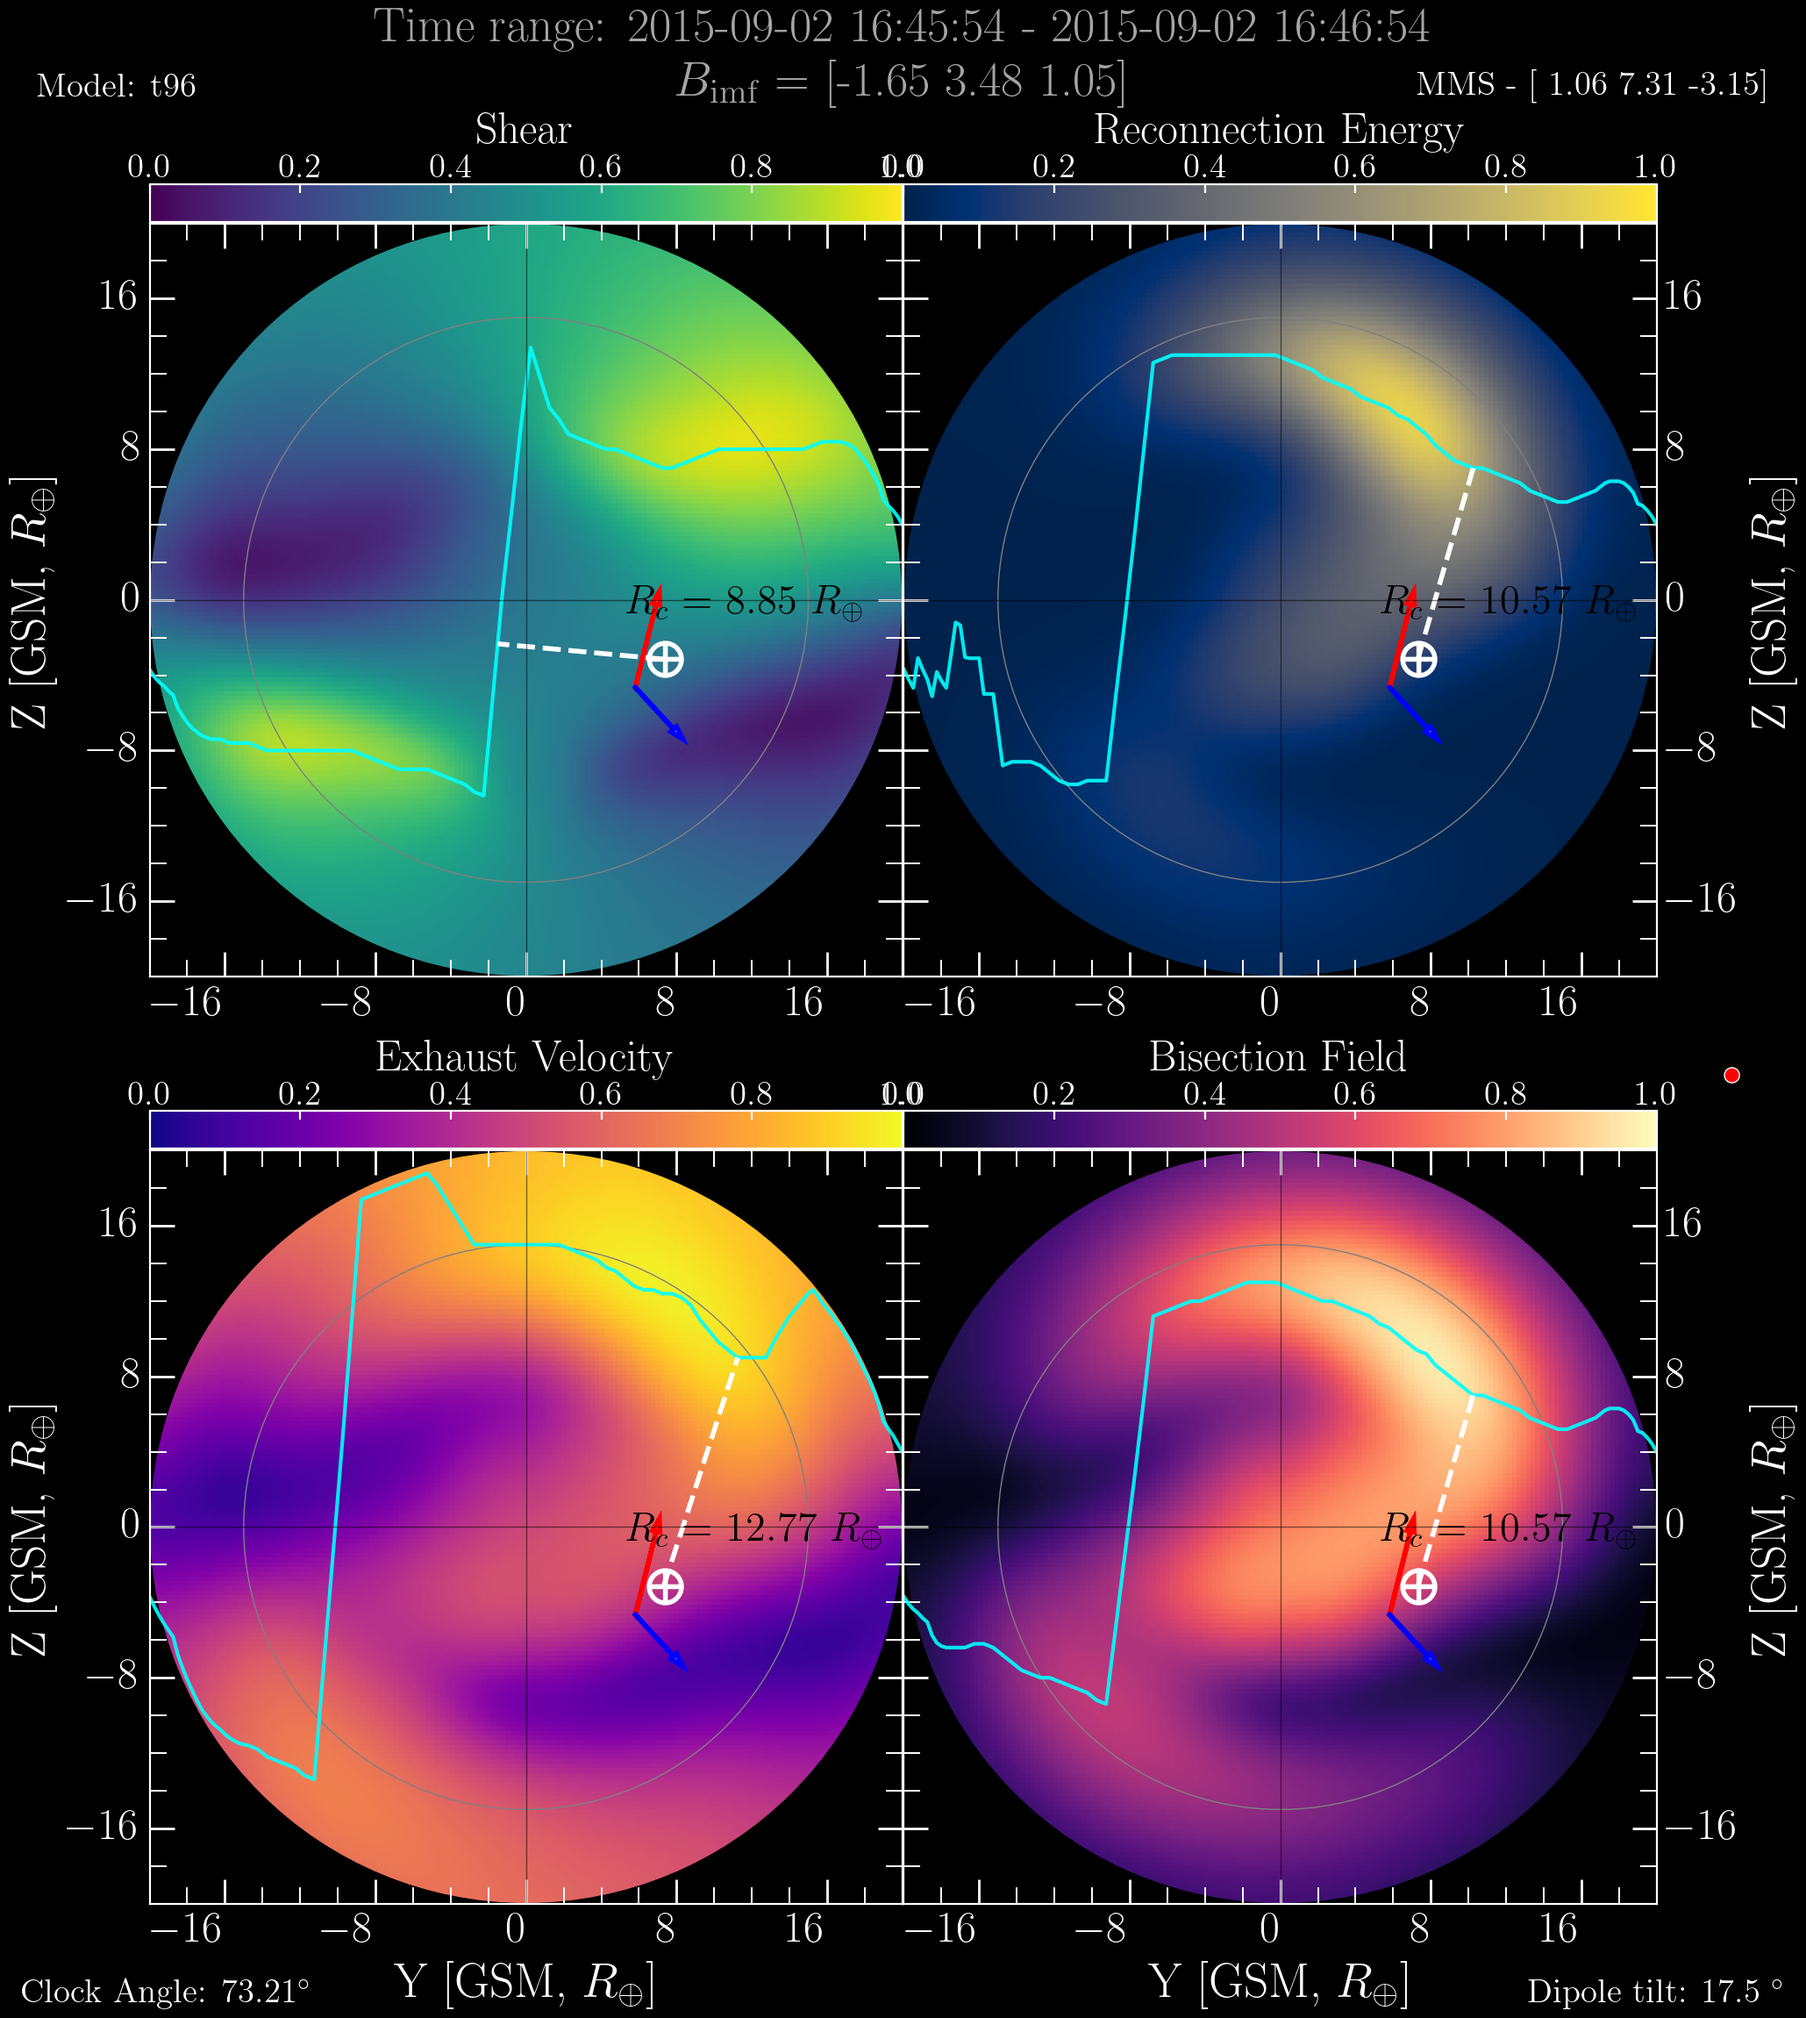
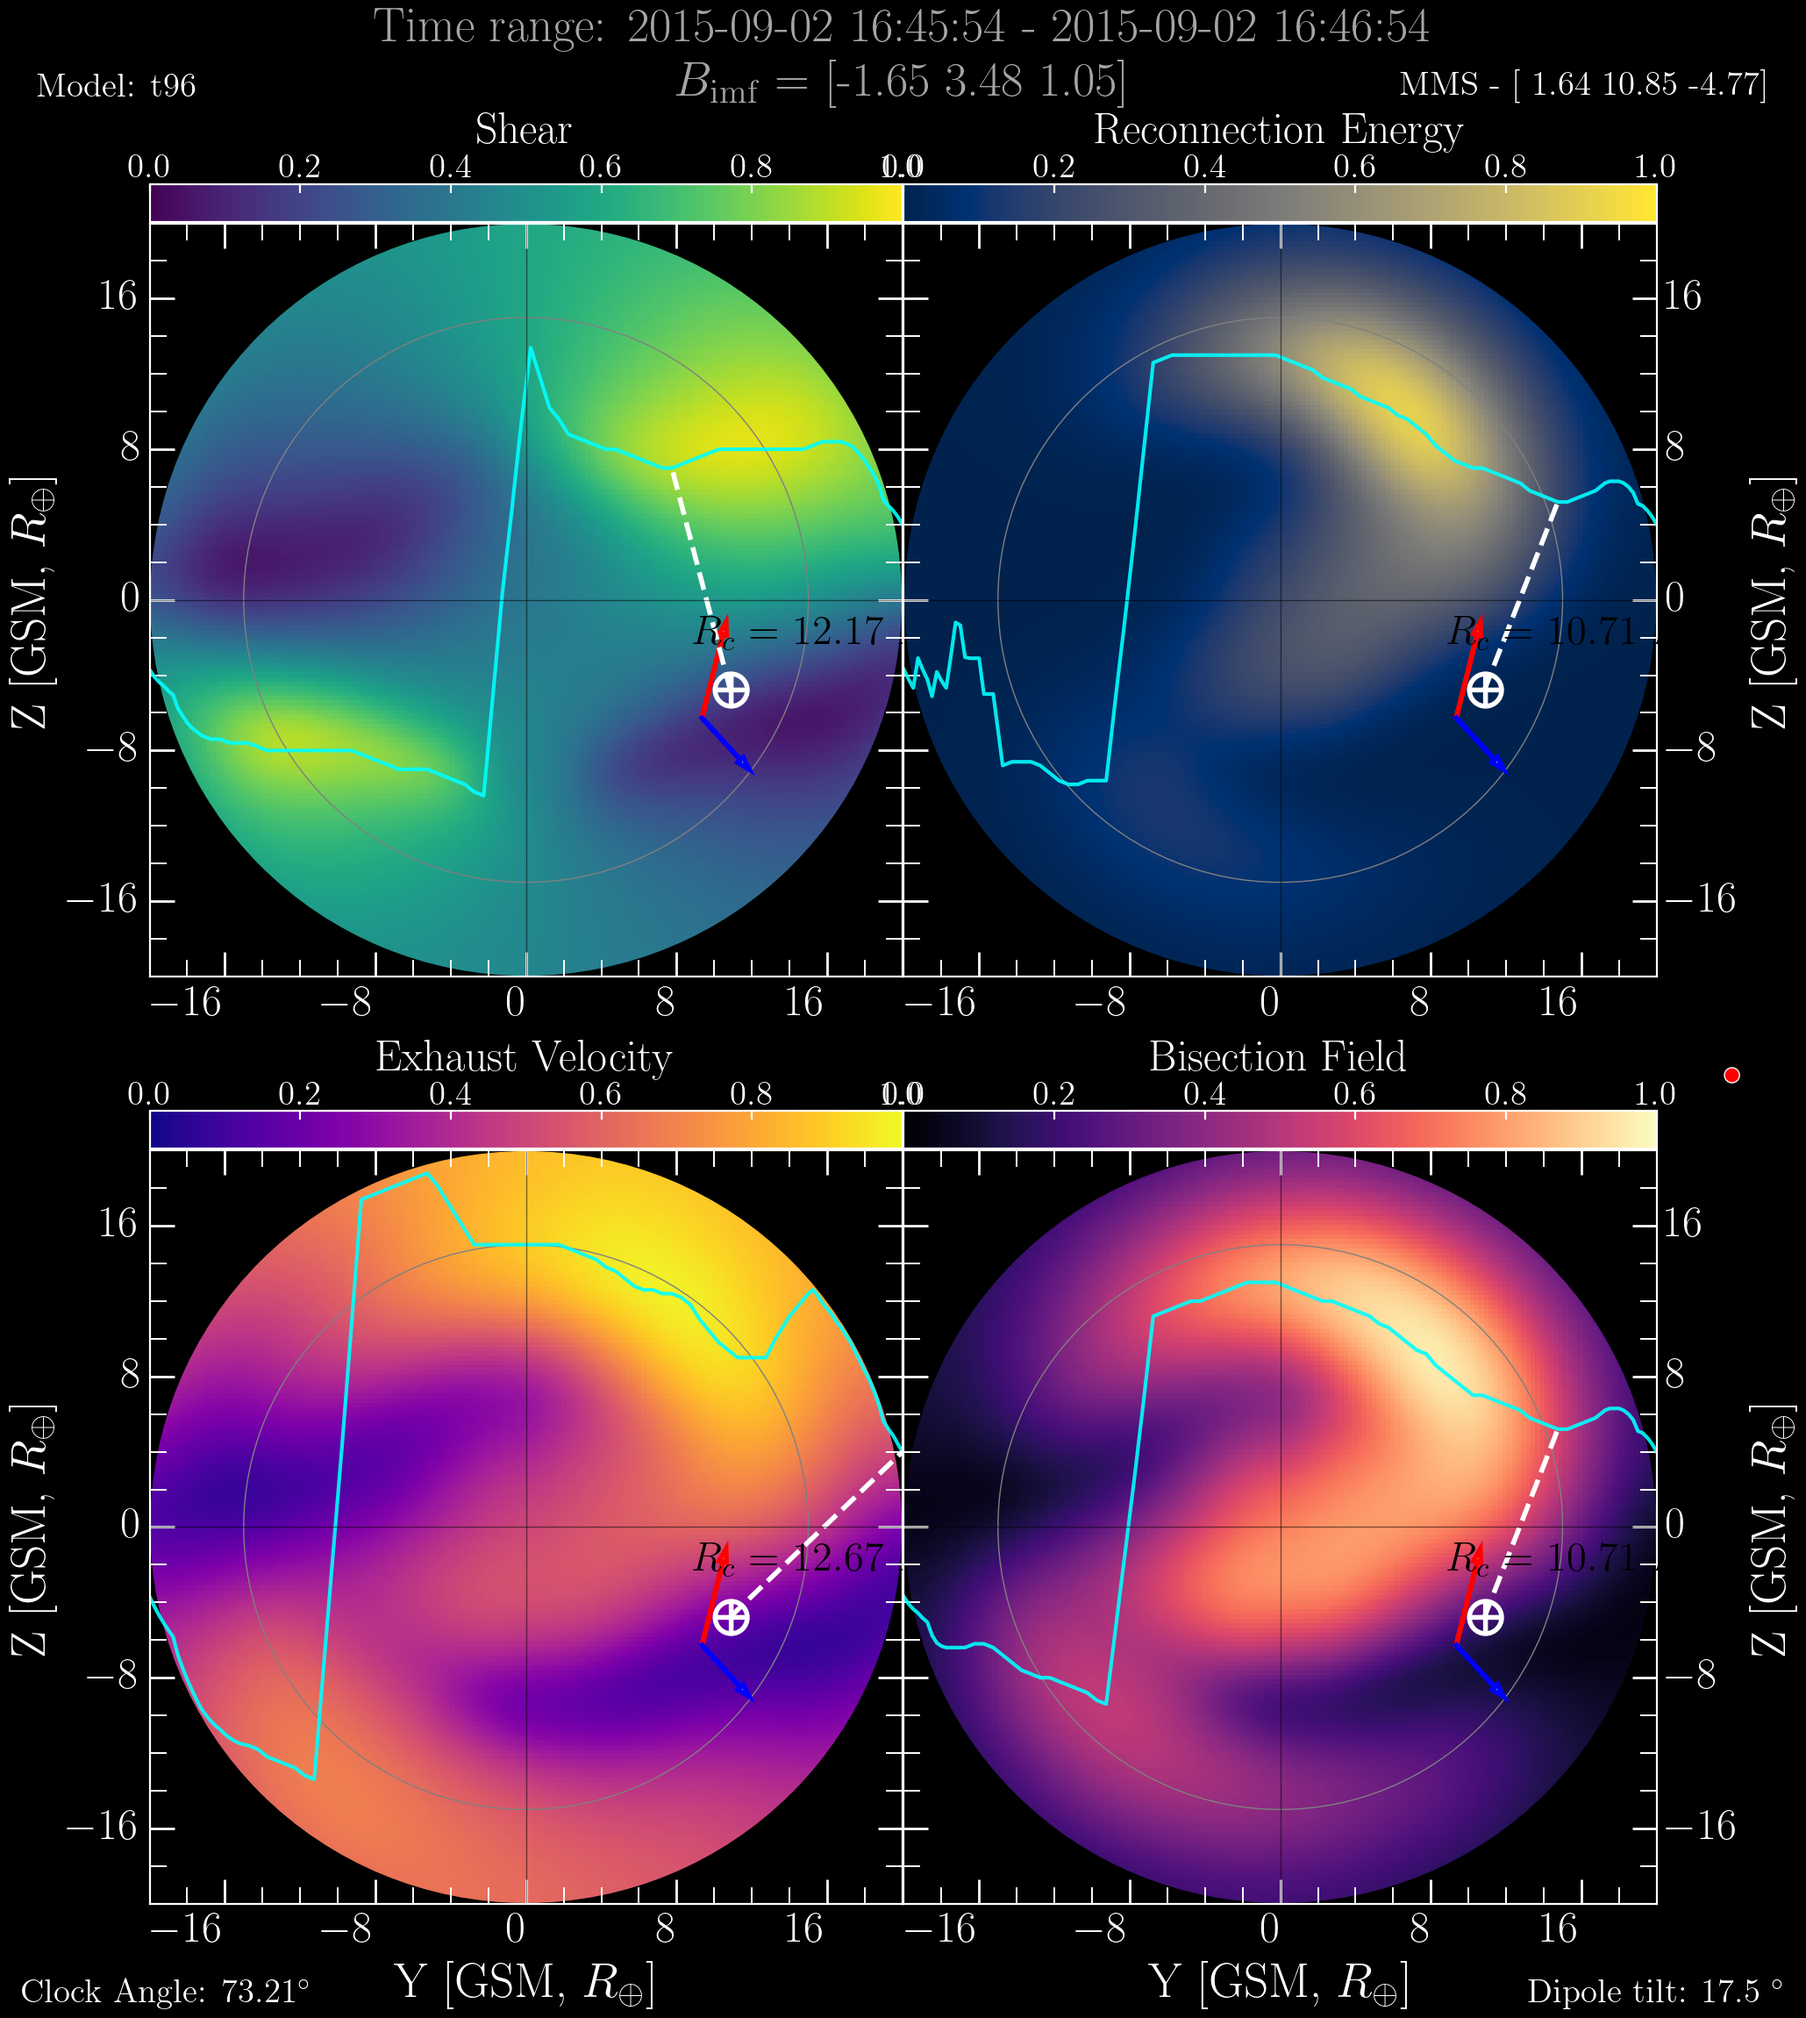
modified:   rx_code.py 	modified:   ../data/rx_d/time_series/rx_line_data_time_series_mms3_20150902_164733.csv 	modified:   ../figures/all_ridge_plots/t96/None_interpolation_mms3/time_series_20150902_164733/ridge_plot_2015-09-02_16-45-05_2015-09-02_16-46-05_-2_3_1.png 	modified:   ../figures/all_rid

diff --git a/codes/rx_code.py b/codes/rx_code.py
@@ -119,7 +119,7 @@ for mms_probe_num in mms_probe_num_list[2:3]:
                     "xrange": [y_min, y_max],
                     "yrange": [z_min, z_max],
                     "mms_probe_num": mms_probe_num,
-                    "mms_sc_pos": np.round(np.nanmean(sw_params["mms_sc_pos"], axis=0), 2),
+                    "mms_sc_pos": np.round(sw_params["mms_sc_pos"], 2),
                     "dr": dr,
                     "dipole_tilt_angle": sw_params["ps"],
                     "p_dyn": np.round(sw_params["p_dyn"], 2),
